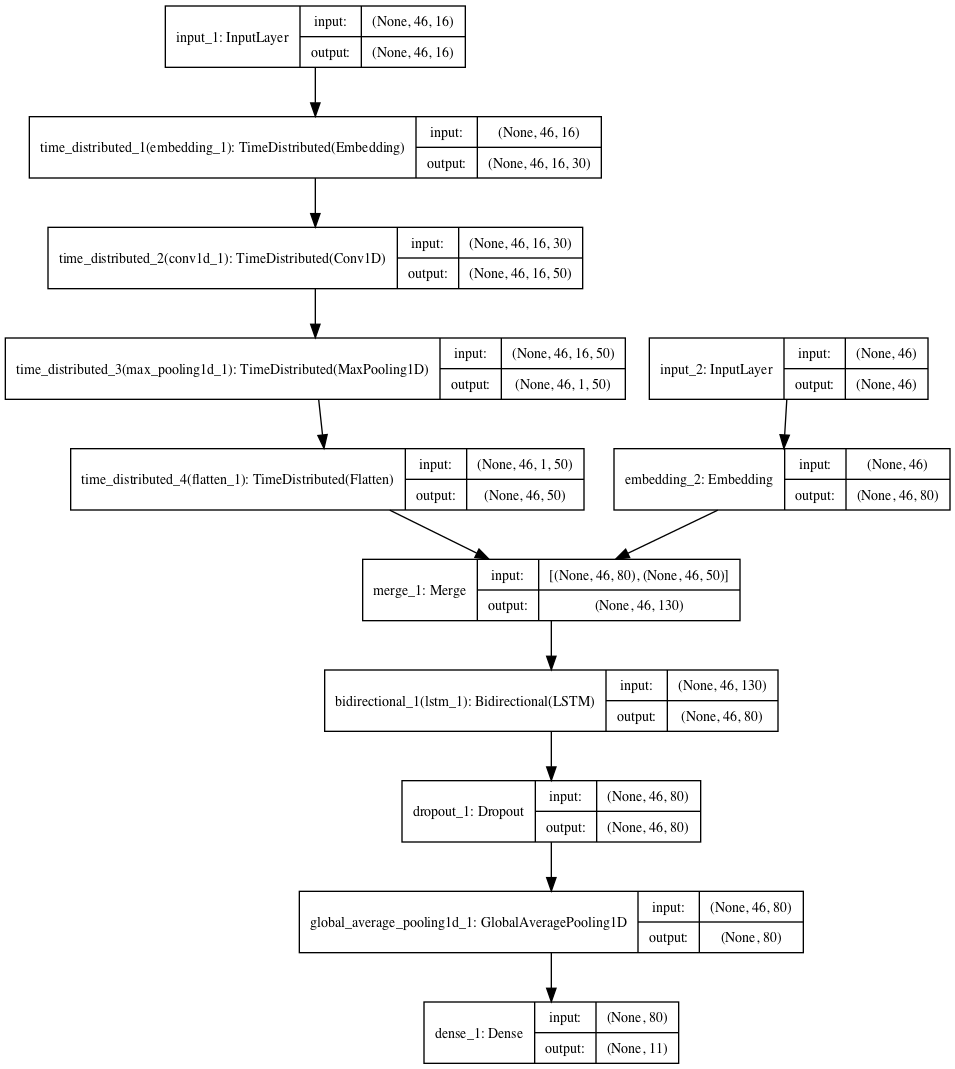
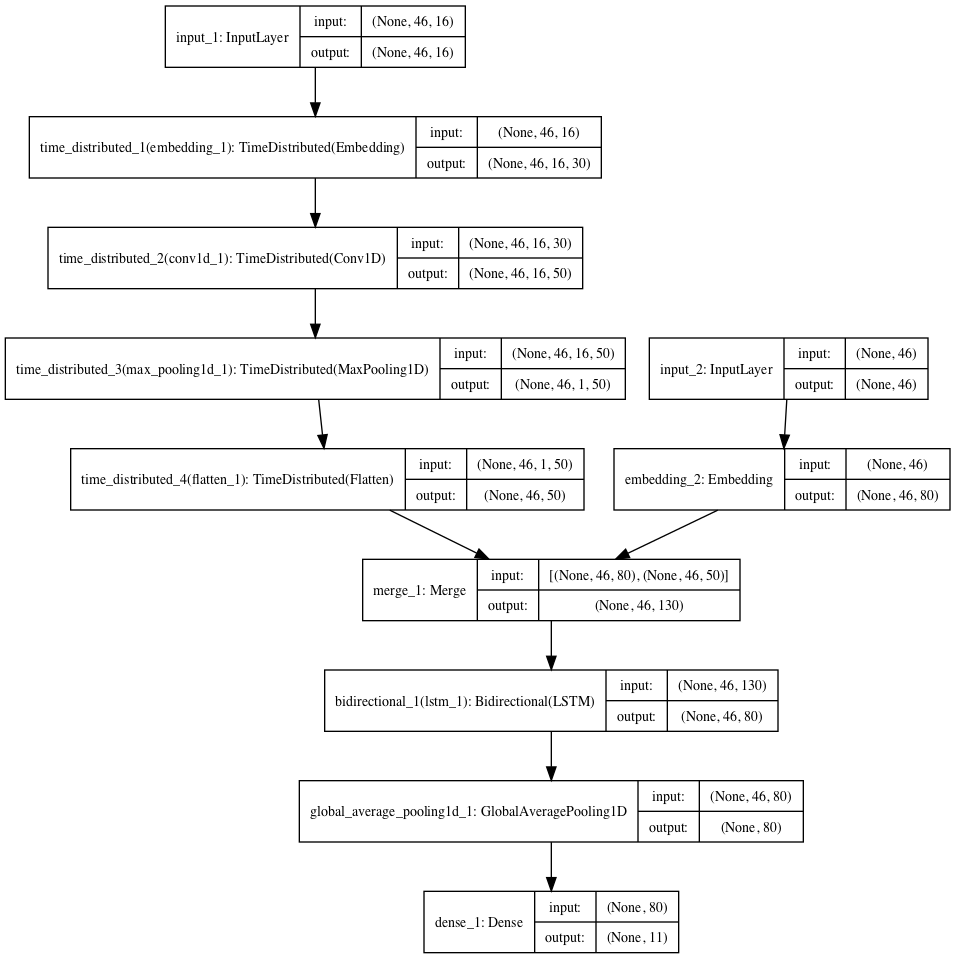
update cnn_rnn, 40th row

Changed region(s): [[0.0, 0.0, 1.0, 0.9979]]

diff --git a/code/twitter_sentiment_cnn_rnn.py b/code/twitter_sentiment_cnn_rnn.py
@@ -307,10 +307,10 @@ def twitter_cnn_rnn(char_vocabulary_size: int, word_vocabulary_size: int, word_l
 
     concat1 = merge([word_embedding, flat], mode='concat')
     blstm = Bidirectional(LSTM(output_dim=80, init='uniform', inner_init='uniform', forget_bias_init='one', return_sequences=True, activation='tanh', inner_activation='sigmoid'), merge_mode='sum')(concat1)
-    dropper = Dropout(0.2)(blstm)
+    # dropper = Dropout(0.2)(blstm)
     # dense = TimeDistributed(Dense(n_outputs, activation='sigmoid'))(dropper)
     # 
-    avgpool1 =  GlobalAveragePooling1D()(dropper) 
+    avgpool1 =  GlobalAveragePooling1D()(blstm) 
     dense = Dense(n_outputs, activation='sigmoid')(avgpool1)
 
     model = Model(inputs=[input1, input2], outputs=dense)
@@ -344,7 +344,7 @@ def twitter_cnn_rnn(char_vocabulary_size: int, word_vocabulary_size: int, word_l
     
 
     print(model.summary())
-    plot_model(model, show_shapes = True, to_file='cnn_rnn39.png')
+    plot_model(model, show_shapes = True, to_file='cnn_rnn40.png')
 
     kwargs = {'callbacks': [EarlyStopping(monitor='val_loss', min_delta=0.0001, patience=5, verbose=0, mode='auto')], 'batch_size': 32}
 
